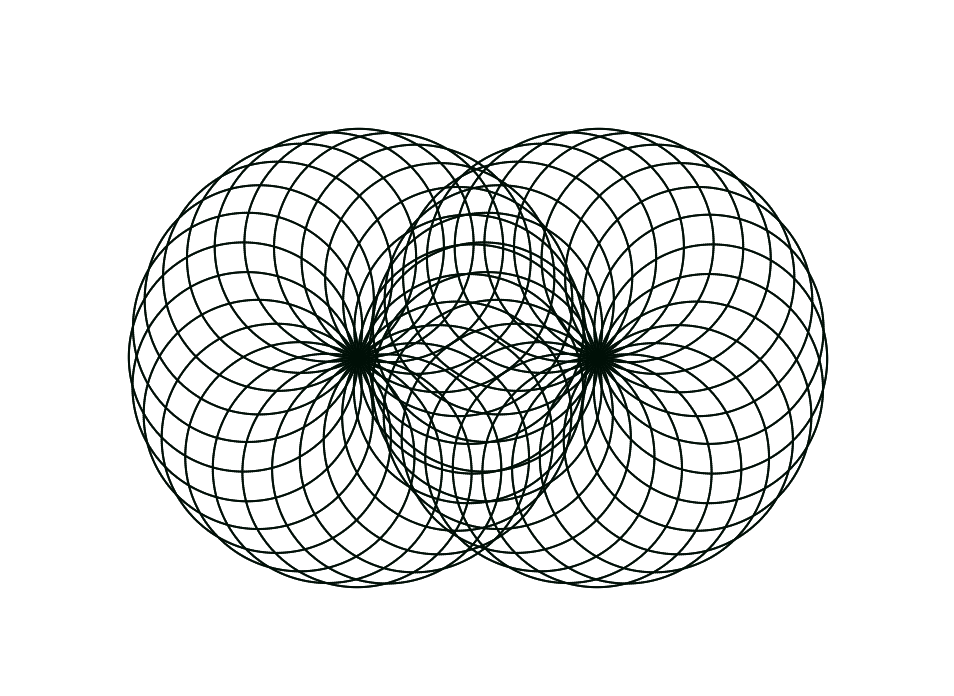
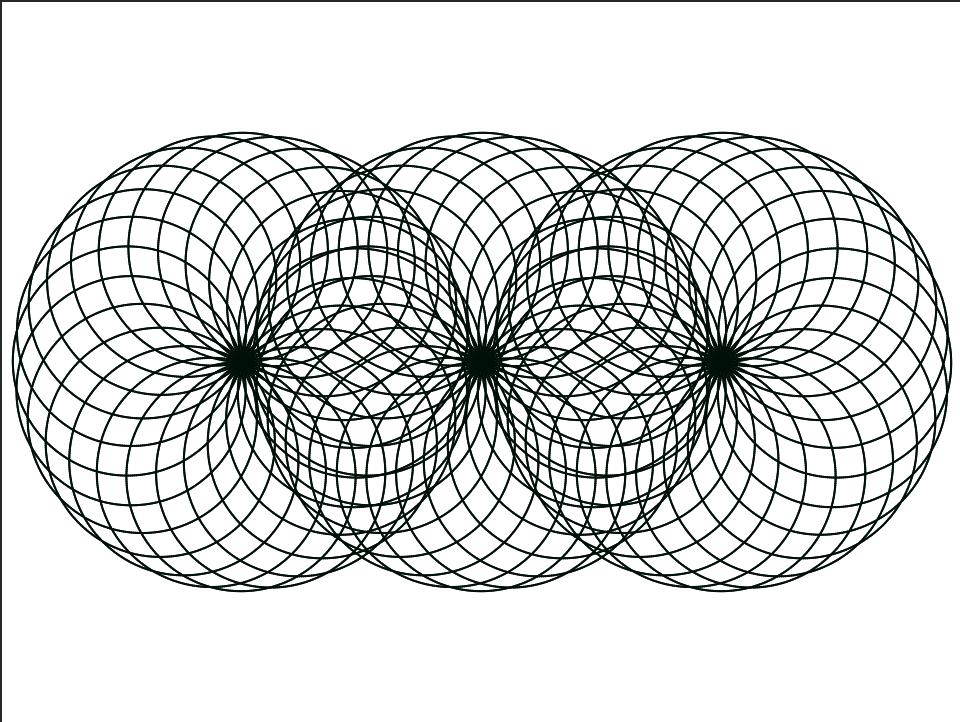
GitBook: [master] 7 pages and 8 assets modified

Changed region(s): [[0.0, 0.181, 1.0, 0.8448], [0.0, 0.0, 0.0304, 0.0302]]

diff --git a/quest.md b/quest.md
@@ -1,30 +1,6 @@
 # Quest
 
-![](.gitbook/assets/image%20%28351%29.png)
-
-{% embed url="https://inst.eecs.berkeley.edu//~cs10/sp11/lab/solutions.html" %}
-
-Good examples for abstraction
-
-{% embed url="https://docs.google.com/presentation/d/1D61ydzc09hxBuins4qTef5zfKqDVXNfRflJUNBE34A8/edit\#slide=id.gb928225d2\_0\_0" %}
-
-Good slides on procedures
-
-{% embed url="https://docs.google.com/presentation/d/1\_lKWy3HeznujFDTeRfffoGSAkvVEPqzpNvKVM2jkC0c/pub?slide=id.g65beed4ce\_0\_17" %}
-
-Same as above, but put into standard slides
-
-{% embed url="https://docs.google.com/presentation/d/12LLM36NEfkylUsy9mG-1TnvorovQbYxhUDI\_cMSzDuU/edit\#slide=id.p69" %}
-
-live lectures of first course
-
-{% embed url="https://www.youtube.com/watch?v=ok\_KcxqVrOk" %}
-
-
-
-{% embed url="https://www.youtube.com/watch?v=YWnG6aqVw8s" %}
-
-Midterm review
+Midterm review HOFs
 
 {% embed url="https://docs.google.com/presentation/d/15mFs4MIMt4-jKqhOsTjcOPhkWql\_zrB9oqod6iLZA3Y/edit\#slide=id.gc5b2eb20b4\_0\_376" %}
 
@@ -33,30 +9,6 @@ Midterm review
 
 
 {% embed url="https://docs.google.com/presentation/d/1KMBuaNGhuUGRm5C2iAteBwIpgZBPl3p\_HBu8qIbMCqo/edit\#slide=id.gc345b8a400\_0\_315" %}
-
-What is a function, why are they useful? examples in scratch. Use DRY example.
-
-
-
-Push the pedal the car goes faster
-
-
-
-Combine into one pattern, much simpler to have them all the same size. taking things that are almost the same, but a little different and combining them into one pattern. then you only have to talk about those details that are different in different cases. shipping containers.
-
-draw a square 1" by 1". another a square 2" by 2'. Just create one program to draw a square with an input.
-
-sometimes decide not to generalize patterns. Different sized wiper blades. Smaller on one side. Complicated engineering to work. The cost is two different types adds complexity for installation/repair.
-
-Generally better to abstract.
-
-How does abstraction work in computer programming? Snap! Left menu of things it knows how to do. On the right there is a stage, with a character that carries out the instructions that you tell it to do. There isn't really a cat inside your computer. What there really is are pixels of different colors. What has to happen, when you say to move the cat, you have to erase all the pixels and then draw a new set of pixels someplace else. That happens deep inside Snap!, which is itself a computer program.
-
-Snap! is just a given to you. It is the underpinning that is allowing you to do that programming in that way. It is itself a programming language that relies on another programming language, smalltalk, which is lower level, but still an abstraction....
-
-As far as you are concerned it really is a cat and you can tell it what to do.
-
-If the abstraction is working well, then you don't even think about it as an abstraction. Think about all the things you do with computers, browser, enter a search query and up pops web page. How does it happen? Hugely complicated, but you take it for granted. 
 
 
 
@@ -68,17 +20,37 @@ If the abstraction is working well, then you don't even think about it as an abs
 
 {% embed url="https://www.youtube.com/watch?v=ZTb33zs15Yw" %}
 
-{% embed url="https://www.youtube.com/watch?v=4oSyYs06g78" %}
+Lists, start at 7:15
 
-{% embed url="https://www.youtube.com/watch?v=sUTky6r5ZU4" %}
+{% embed url="https://www.tealsk12.org/training-files/Post%20Training%20Session%202/snap-advanced-lists-and-higher-order-functions-ap-csp-bjc.html" %}
 
-{% embed url="https://www.youtube.com/watch?v=TSiLzJAArIQ" %}
+Show foreach 
 
-{% embed url="https://www.youtube.com/watch?v=GT6ryveT9Dw" %}
+compare foreach to for
 
-{% embed url="https://www.youtube.com/watch?v=8df6nmWYIWA" %}
+write a function that returns the sum of the items in a list using for and combine
 
+add to lists lecture
 
+![](.gitbook/assets/image%20%28348%29.png)
+
+{% embed url="https://learning.edx.org/course/course-v1:BerkeleyX+BJC.34x+3T2017/block-v1:BerkeleyX+BJC.34x+3T2017+type@sequential+block@aad0dead27c14d37a663ce01261f89e5/block-v1:BerkeleyX+BJC.34x+3T2017+type@vertical+block@f25bb50cb78d4673975e53bb8e36c16a" %}
+
+{% embed url="https://bjc.edc.org/June2017/bjc-r/cur/programming/3-lists/3-three-key-list-ops/2-map.html?topic=nyc\_bjc%2F3-lists.topic&course=bjc4nyc.html&novideo&noassignment" %}
+
+incorporate these into list slides
+
+{% embed url="https://bjc.edc.org/June2017/bjc-r/cur/programming/3-lists/3-three-key-list-ops/1-exploring-list-operations.html?topic=nyc\_bjc%2F3-lists.topic&course=bjc4nyc.html&novideo&noassignment" %}
+
+another version of the same
+
+{% embed url="https://bjc.edc.org/Sept2015/bjc-r/cur/programming/3-lists/2-list-operations/1-getting-started.html?topic=nyc\_bjc%2F3-lists.topic" %}
+
+{% embed url="https://bjc.edc.org/Sept2015/bjc-r/cur/programming/3-lists/4-magic-square/1-getting-started.html?topic=nyc\_bjc%2F3-lists.topic" %}
+
+Find duplicates
+
+{% embed url="https://bjc.edc.org/June2017/bjc-r/cur/programming/5-algorithms/1-searching-lists/3-comparing-search-algorithms.html?topic=nyc\_bjc%2F5-algorithms.topic&course=bjc4nyc\_2015-2016.html&novideo&noassignment" %}
 
 
 

diff --git a/loops-and-custom-blocks/draw-a-field-of-flowers.md b/loops-and-custom-blocks/draw-a-field-of-flowers.md
@@ -16,23 +16,3 @@ And another example...
 
 [herbeFoleFleurs](https://snap.berkeley.edu/snap/snap.html#present:Username=annechinn&ProjectName=herbeFoleFleurs)
 
-### Extra Challenge
-
-Write the code to draw the geometric design shown below.
-
-![](../.gitbook/assets/image%20%28348%29.png) 
-
-You can watch this animation to get some ideas.
-
-![](https://bjc.edc.org/bjc-r/img/1-introduction/Daisy_img/DaisyAnimation.gif)
-
-The entire design is made up of circles. So the first thing to do is to write code that will create a circle. To do this, create a custom block `Draw Circle` via the “Variables” menu “Make a block” option. Hint: A regular polygon with 30 or more sides is a good approximation for a circle.
-
-Now that you can draw a circle, you can generate the Daisy Design by rotating your sprite a bit at the end of each circle drawn. In the design above there are 24 circles. How much must the sprite turn each time a circle is drawn in order to make a full cycle of 360° when all the circles are drawn? Create a custom block `Draw Daisy` to do this.
-
-Extend it further to create these patterns:
-
-![](../.gitbook/assets/image%20%28350%29.png) ![](../.gitbook/assets/image%20%28354%29.png) ![](../.gitbook/assets/image%20%28349%29.png) ![](../.gitbook/assets/image%20%28353%29.png) 
-
-Add these flowers to your field of flowers.
-

diff --git a/loops-and-custom-blocks/extra-challenge-optional.md b/loops-and-custom-blocks/extra-challenge-optional.md
@@ -1,0 +1,18 @@
+# Extra Challenge \(Optional\)
+
+Write the code to draw the geometric design shown below.
+
+![](../.gitbook/assets/image%20%28349%29.png) 
+
+You can watch this animation to get some ideas.
+
+![](https://bjc.edc.org/bjc-r/img/1-introduction/Daisy_img/DaisyAnimation.gif)
+
+The entire design is made up of circles. So the first thing to do is to write code that will create a circle. To do this, create a custom block `Draw Circle` via the “Variables” menu “Make a block” option. Hint: A regular polygon with 30 or more sides is a good approximation for a circle.
+
+Now that you can draw a circle, you can generate the Daisy Design by rotating your sprite a bit at the end of each circle drawn. In the design above there are 24 circles. How much must the sprite turn each time a circle is drawn in order to make a full cycle of 360° when all the circles are drawn? Create a custom block `Draw Daisy` to do this.
+
+Extend it further to create these patterns:
+
+![](../.gitbook/assets/image%20%28351%29.png) ![](../.gitbook/assets/image%20%28355%29.png) ![](../.gitbook/assets/image%20%28350%29.png) ![](../.gitbook/assets/image%20%28354%29.png) 
+

diff --git a/loops-and-custom-blocks/repeat-loops.md b/loops-and-custom-blocks/repeat-loops.md
@@ -39,15 +39,5 @@ As you draw regular polygons with more and more sides, you are getting closer an
 
 {% embed url="https://beautyjoy.github.io/bjc-r/cur/programming/intro/drawing/angles-self-test.html?1&1&topic=berkeley\_bjc%2Fintro\_pair%2F2-loops-variables.topic&course=cs10\_sp19.html&novideo&noreading&noassignment" %}
 
-## Drawing a Star
-
-Complete the code below to draw a star.
-
-![](../.gitbook/assets/image%20%28323%29.png) ![](../.gitbook/assets/image%20%28314%29.png) 
-
-A regular star is closely related to a pentagon. And, remember, a turning angle of `72` draws a regular pentagon.
-
-Use the `turn` block before the `repeat` block so that the star isn't drawn tilted. But, don't worry about this until you got the other `turn` block figured out.
-
 {% embed url="https://beautyjoy.github.io/bjc-r/cur/programming/intro/drawing/angles-self-test-2.html?1&topic=berkeley\_bjc%2Fintro\_pair%2F2-loops-variables.topic&course=cs10\_sp19.html&novideo&noreading&noassignment" %}
 

diff --git a/snap-intro/kaleidoscope.md b/snap-intro/kaleidoscope.md
@@ -27,5 +27,3 @@ For this activity, your job is to make a \(kind of\) kaleidoscope, that has four
 * Pay close attention to what each of the other sprites is doing in the animation above. You will need to modify the **x** and **y** inputs in each sprite's ![](../.gitbook/assets/image%20%28215%29.png) block using simple formulas, with ![](../.gitbook/assets/image%20%28156%29.png) and ![](../.gitbook/assets/image%20%2841%29.png) .
 * Hint: All the sprites are reflecting in different ways around the \(x=0, y=0\) origin point of the stage. \(Notice that one sprite is following the mouse.\)
 
-Once you figured this out, try out some complicated formulas and/or more sprites, and share with your classmates!
-

diff --git a/SUMMARY.md b/SUMMARY.md
@@ -33,7 +33,8 @@
   * [Composition of Blocks](loops-and-custom-blocks/composition-of-blocks.md)
   * [Random Block](loops-and-custom-blocks/random-block.md)
   * [Draw a Field of Flowers](loops-and-custom-blocks/draw-a-field-of-flowers.md)
-  * [Extra Challenge](loops-and-custom-blocks/extra-challenge-for-math-inclined.md)
+  * [Extra Challenge \(Optional\)](loops-and-custom-blocks/extra-challenge-for-math-inclined.md)
+  * [Extra Challenge \(Optional\)](loops-and-custom-blocks/extra-challenge-optional.md)
 * [Conditionals & Reporters](conditionals/README.md)
   * [Simple Predicates - Comparison Operators](conditionals/comparison-predicates.md)
   * [If and If-Else](conditionals/conditionals.md)

diff --git a/loops-and-custom-blocks/extra-challenge-for-math-inclined.md b/loops-and-custom-blocks/extra-challenge-for-math-inclined.md
@@ -1,4 +1,4 @@
-# Extra Challenge
+# Extra Challenge \(Optional\)
 
 ### Curve Stitching
 
